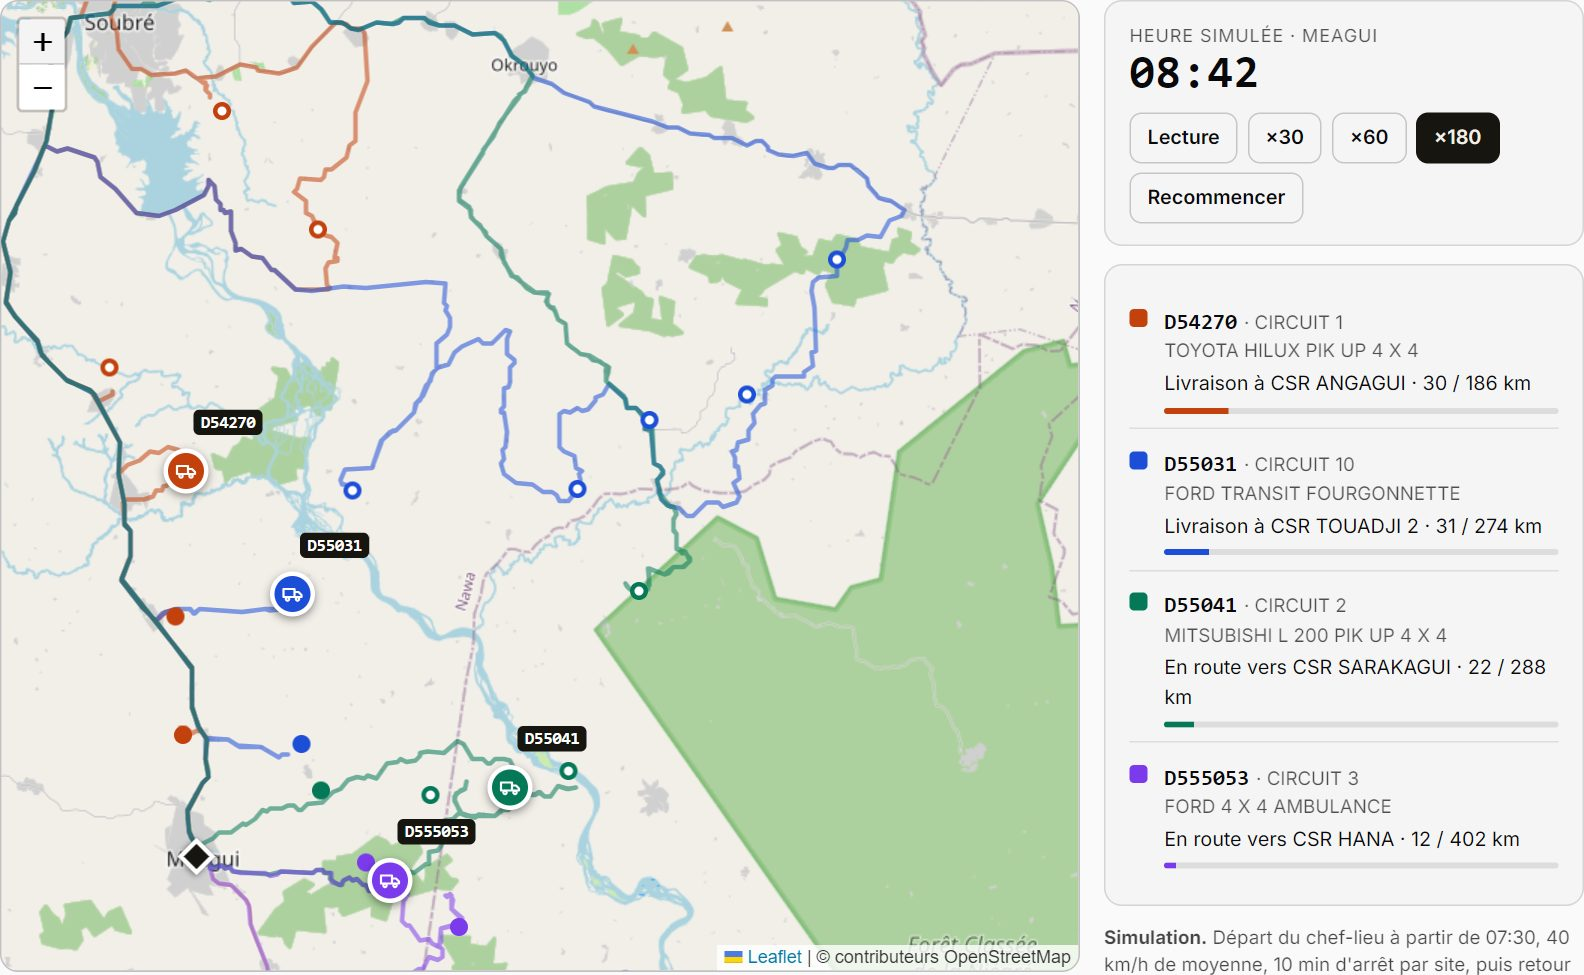
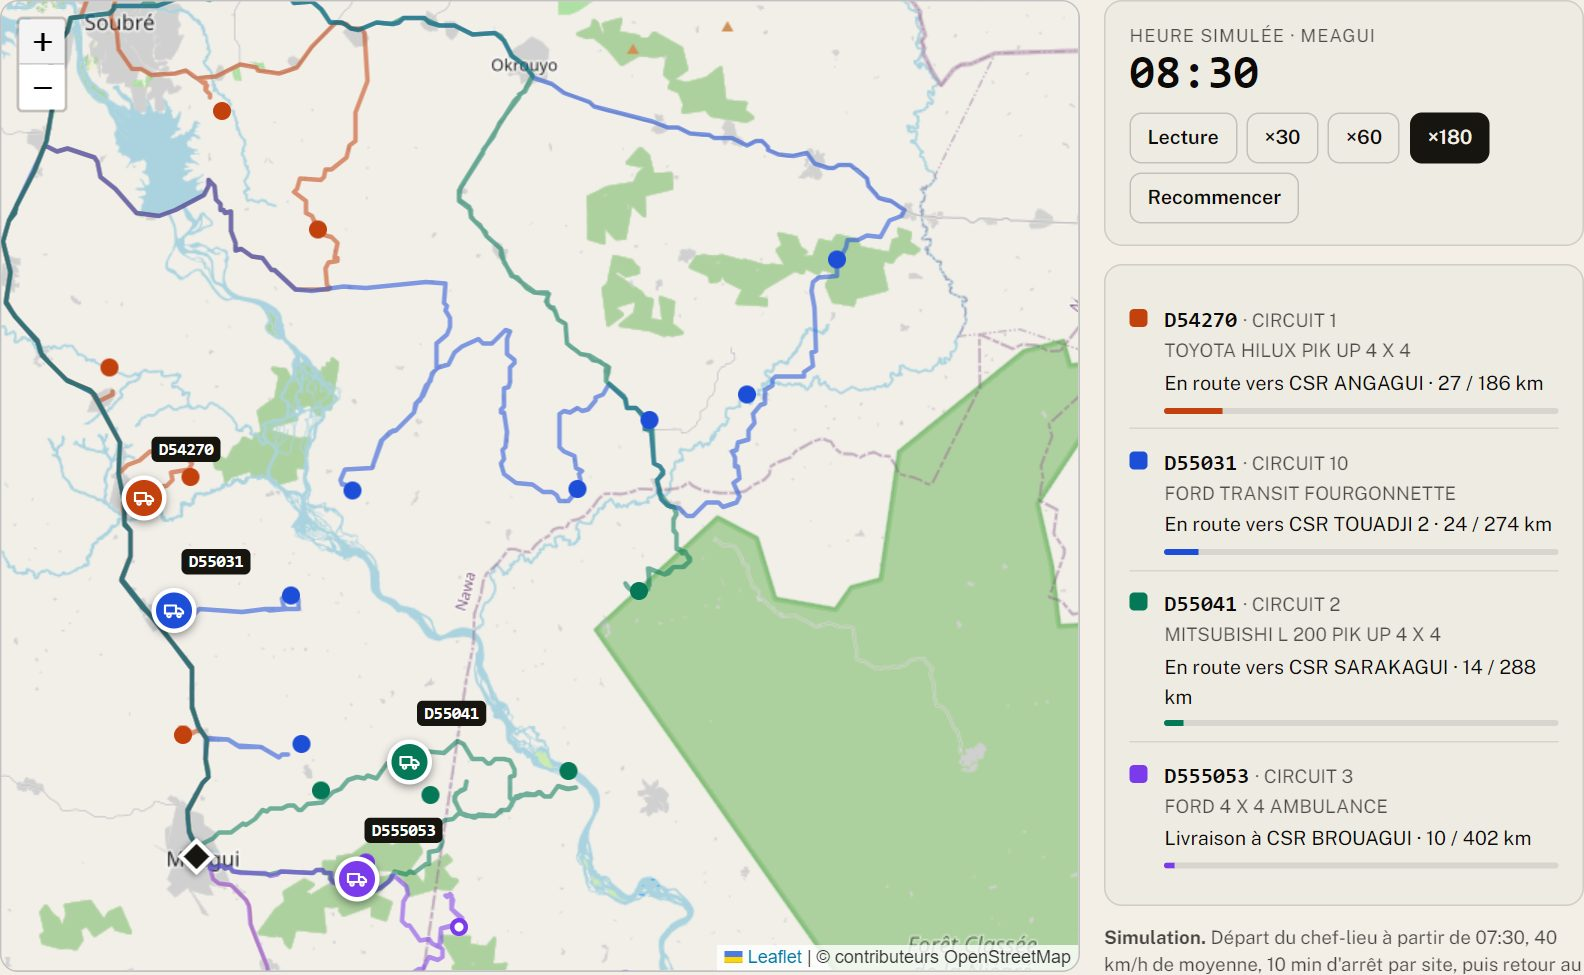
Menus : « Suivi de la saisie » devient « Cartographie » (sous le chronogramme), l'ancienne « Cartographie » devient « Suivi en temps réel » ; nom du produit « Logimaster » ; captures de la landing refaites

diff --git a/public/presentation/index.html b/public/presentation/index.html
@@ -3,7 +3,7 @@
 <head>
 <meta charset="utf-8">
 <meta name="viewport" content="width=device-width, initial-scale=1">
-<title>LogiMaster — Présentation animée</title>
+<title>Logimaster — Présentation animée</title>
 <link rel="icon" href="/logo.svg?v=2">
 <style>
 :root{--navy:#0a1226;--navy2:#101a33;--blue:#2563eb;--blue2:#60a5fa;--cyan:#22d3ee;--green:#22c55e;--amber:#f59e0b;--red:#ef4444;--ink:#0f172a;--muted:#5b6b82;--line:#e2e8f2}
@@ -146,12 +146,12 @@ html,body{height:100%;background:#050913;overflow:hidden;font-family:"Inter",sys
 <body>
 <div id="stage">
   <div class="bgfx"></div><div class="blob b1"></div><div class="blob b2"></div>
-  <div id="brand"><img src="/logo.svg?v=2" alt="">LogiMaster</div>
+  <div id="brand"><img src="/logo.svg?v=2" alt="">Logimaster</div>
   <div id="hint">Espace : pause · ← → : scènes · F : plein écran</div>
 
   <section class="scene s1">
     <img class="logo" src="/logo.svg?v=2" alt="">
-    <h1 aria-label="LogiMaster"><span style="animation-delay:.5s">Logi</span><span style="animation-delay:.65s">Master</span> <span style="animation-delay:.8s;color:var(--blue2)">Pro</span></h1>
+    <h1 aria-label="Logimaster"><span style="animation-delay:.5s">Logi</span><span style="animation-delay:.65s">Master</span> <span style="animation-delay:.8s;color:var(--blue2)">Pro</span></h1>
     <p>La logistique des districts sanitaires, en temps réel.</p>
     <div class="tag">Gestion de flotte · Livraisons · Indicateurs DDKM</div>
   </section>

diff --git a/public/js/lm-cartographie.js b/public/js/lm-cartographie.js
@@ -1,4 +1,4 @@
-/* Cartographie (LogiMaster) : simulation du déplacement des véhicules du district sur leurs circuits, fond OpenStreetMap (Leaflet). */
+/* Cartographie (Logimaster) : simulation du déplacement des véhicules du district sur leurs circuits, fond OpenStreetMap (Leaflet). */
 window.lmCartographie = window.lmCartographie || function (el, data) {
     if (el._lm) return; el._lm = true;
     const KMH = 40, STOP_MIN = 10, START = 7.5 * 60, GAP = 15;   // minutes simulées

diff --git a/resources/views/landing.blade.php b/resources/views/landing.blade.php
@@ -4,8 +4,8 @@
     <meta charset="utf-8">
     <meta name="viewport" content="width=device-width, initial-scale=1">
     <meta name="theme-color" content="#f3efe6">
-    <meta name="description" content="LogiMaster : planification des sorties, suivi des livraisons aux centres de santé et indicateurs DDKM pour les districts sanitaires. Application convoyeur utilisable sans réseau.">
-    <title>LogiMaster — Flotte et livraisons des districts sanitaires</title>
+    <meta name="description" content="Logimaster : planification des sorties, suivi des livraisons aux centres de santé et indicateurs DDKM pour les districts sanitaires. Application convoyeur utilisable sans réseau.">
+    <title>Logimaster — Flotte et livraisons des districts sanitaires</title>
     <link rel="icon" href="{{ \App\Support\Brand::favicon() }}">
     <link rel="icon" type="image/svg+xml" href="{{ \App\Support\Brand::logo() }}">
     <link rel="apple-touch-icon" href="{{ \App\Support\Brand::url('pwa/apple-touch-icon.png') }}">
@@ -165,10 +165,10 @@
 
 <header class="top">
     <div class="wrap">
-        <a class="brand" href="/"><img src="{{ \App\Support\Brand::logo() }}" alt=""><b>LogiMaster</b></a>
+        <a class="brand" href="/"><img src="{{ \App\Support\Brand::logo() }}" alt=""><b>Logimaster</b></a>
         <nav class="links">
             <a class="l" href="#fonctionnement">Fonctionnement</a>
-            <a class="l" href="#saisie">Suivi de la saisie</a>
+            <a class="l" href="#saisie">Cartographie</a>
             <a class="l" href="#indicateurs">Indicateurs</a>
             <a class="l" href="#terrain">Application terrain</a>
             @if ($adminOpen)<a class="btn line sm" href="/admin">Se connecter</a>@endif
@@ -201,7 +201,7 @@
         <figure class="up" style="animation-delay:.35s">
             <div class="shot">
                 <div class="cap"><span>Tableau de bord · district de Méagui</span><span>Octobre 2025</span></div>
-                <img src="/landing/tableau-de-bord.jpg" width="2160" height="1350" alt="Tableau de bord de LogiMaster : filtres par PRES, région, district et période, puis les huit indicateurs DDKM du mois d'octobre 2025 pour le district de Méagui.">
+                <img src="/landing/tableau-de-bord.jpg" width="2160" height="1350" alt="Tableau de bord de Logimaster : filtres par PRES, région, district et période, puis les huit indicateurs DDKM du mois d'octobre 2025 pour le district de Méagui.">
             </div>
             <figcaption><b>Capture de l'application.</b> Les huit indicateurs du mois, comparés au mois précédent, pour le district choisi. Un clic sur un indicateur ouvre son détail et son évolution.</figcaption>
         </figure>
@@ -222,7 +222,7 @@
 
 <section id="saisie">
     <div class="wrap">
-        <div class="sh"><span class="mono">02 — Suivi de la saisie</span><div><h2>Qui a renseigné ses véhicules, et qui ne l'a pas fait</h2><p>Un tableau des districts sur les douze mois de l'année. Le niveau régional et national voit d'un coup d'œil où relancer.</p></div></div>
+        <div class="sh"><span class="mono">02 — Cartographie</span><div><h2>Qui a renseigné ses véhicules, et qui ne l'a pas fait</h2><p>Une carte de la Côte d'Ivoire et un tableau des districts sur les douze mois de l'année. Le niveau régional et national voit d'un coup d'œil où relancer.</p></div></div>
         <div class="split">
             <ul>
                 <li><b>Un district par ligne, un mois par colonne</b>Le chiffre de chaque case est le nombre de sorties saisies dans le mois.</li>
@@ -231,8 +231,8 @@
             </ul>
             <figure>
                 <div class="shot">
-                    <div class="cap"><span>Suivi de la saisie · région NAWA</span><span>2025</span></div>
-                    <img src="/landing/suivi-saisie.jpg" width="1665" height="690" alt="Tableau du suivi de la saisie pour la région NAWA en 2025 : quatre districts, douze mois, cases vertes pour les mois renseignés et rouges pour les mois sans saisie.">
+                    <div class="cap"><span>Cartographie · 113 districts sanitaires</span><span>2025</span></div>
+                    <img src="/landing/cartographie-saisie.jpg" width="1584" height="899" alt="Carte de la Côte d'Ivoire avec les 113 districts sanitaires : en vert ceux qui ont saisi leurs sorties de véhicules, en rouge ceux qui n'ont rien saisi.">
                 </div>
                 <div class="key"><span><i style="background:#16a34a"></i>Renseigné</span><span><i style="background:#dc2626"></i>Non renseigné</span><span><i style="background:#d6d3cc"></i>Mois à venir</span></div>
             </figure>
@@ -287,11 +287,11 @@
 
 <section id="cartographie">
     <div class="wrap">
-        <div class="sh"><span class="mono">05 — Cartographie</span><div><h2>Les véhicules du district sur la carte</h2><p>Une carte OpenStreetMap du district : chaque véhicule suit son circuit sur le réseau routier, site par site, avec son avancement et sa prochaine étape.</p></div></div>
+        <div class="sh"><span class="mono">05 — Suivi en temps réel</span><div><h2>Les véhicules du district sur la carte</h2><p>Une carte OpenStreetMap du district : chaque véhicule suit son circuit sur le réseau routier, site par site, avec son avancement et sa prochaine étape.</p></div></div>
         <figure>
             <div class="shot">
-                <div class="cap"><span>Cartographie · district de Méagui</span><span>Simulation de la journée</span></div>
-                <img src="/landing/cartographie-zoom.jpg" width="1584" height="975" loading="lazy" alt="Cartographie du district de Méagui : tracés routiers des circuits, position de chaque véhicule et liste des véhicules avec leur avancement.">
+                <div class="cap"><span>Suivi en temps réel · district de Méagui</span><span>Simulation de la journée</span></div>
+                <img src="/landing/cartographie-zoom.jpg" width="1584" height="975" loading="lazy" alt="Suivi en temps réel du district de Méagui : tracés routiers des circuits, position de chaque véhicule et liste des véhicules avec leur avancement.">
             </div>
         </figure>
         <div class="map-legend">
@@ -327,7 +327,7 @@
 
 <footer>
     <div class="wrap">
-        <span>LogiMaster · gestion de flotte et livraisons des districts sanitaires</span>
+        <span>Logimaster · gestion de flotte et livraisons des districts sanitaires</span>
         <span><a href="#fonctionnement">Fonctionnement</a><a href="/m">Application convoyeur</a><a href="/m/installer">Affiche d'installation</a>@if ($adminOpen)<a href="/admin">Administration</a>@endif</span>
     </div>
 </footer>

diff --git a/resources/views/mobile/app.blade.php b/resources/views/mobile/app.blade.php
@@ -7,12 +7,12 @@
     <meta name="theme-color" content="#14130f" media="(prefers-color-scheme: dark)">
     <meta name="mobile-web-app-capable" content="yes">
     <meta name="apple-mobile-web-app-capable" content="yes">
-    <meta name="apple-mobile-web-app-title" content="LogiMaster">
+    <meta name="apple-mobile-web-app-title" content="Logimaster">
     <meta name="apple-mobile-web-app-status-bar-style" content="default">
     <link rel="manifest" href="/m/manifest.webmanifest">
     <link rel="apple-touch-icon" href="{{ \App\Support\Brand::url('pwa/apple-touch-icon.png') }}">
     <link rel="icon" href="{{ \App\Support\Brand::favicon() }}">
-    <title>LogiMaster Convoyeur</title>
+    <title>Logimaster Convoyeur</title>
     <link rel="preconnect" href="https://fonts.googleapis.com">
     <link rel="preconnect" href="https://fonts.gstatic.com" crossorigin>
     <link href="https://fonts.googleapis.com/css2?family=Newsreader:opsz,wght@6..72,500&family=Public+Sans:wght@400;500;600;700&family=IBM+Plex+Mono:wght@500&display=swap" rel="stylesheet">
@@ -309,7 +309,7 @@ function render() {
 
 // ---- connexion
 function loginView() {
-    return '<div class="center"><img class="logo" src="' + esc(CFG.logo || '/logo.svg') + '" alt=""><div class="brandline"><span>LogiMaster · convoyeur</span><span>District sanitaire</span></div><h1 style="margin:0 0 8px">Vos circuits, site par site.</h1><p class="muted" style="margin:0 0 10px;font-size:15px">Connectez-vous pour voir vos sorties validées.</p>' +
+    return '<div class="center"><img class="logo" src="' + esc(CFG.logo || '/logo.svg') + '" alt=""><div class="brandline"><span>Logimaster · convoyeur</span><span>District sanitaire</span></div><h1 style="margin:0 0 8px">Vos circuits, site par site.</h1><p class="muted" style="margin:0 0 10px;font-size:15px">Connectez-vous pour voir vos sorties validées.</p>' +
         '<form id="login"><label for="em">Identifiant</label><input id="em" type="text" autocomplete="username" autocapitalize="none" autocorrect="off" spellcheck="false" placeholder="ex. kone.ibrahim" required>' +
         '<label for="pw">Code d\'accès ou mot de passe</label><input id="pw" type="password" autocomplete="current-password" required>' +
         '<p class="muted" style="margin:8px 2px 0">Identifiant et code provisoire remis par votre district.</p>' +
@@ -721,7 +721,7 @@ function profileView() {
         (!standalone && ios ? '<div class="card muted">iPhone : touchez <b>Partager</b> puis <b>Sur l\'écran d\'accueil</b> pour installer l\'application et recevoir les notifications.</div>' : '') +
         '<button class="btn sec" id="pushtest" style="margin-bottom:12px">Recevoir une notification de test</button>' +
         '<a class="btn sec" href="#/password" style="margin-bottom:10px">Changer le mot de passe</a><button class="btn sec" id="sync" style="margin-bottom:10px">Synchroniser maintenant</button><button class="btn bad" id="out">Se déconnecter</button>' +
-        '<p class="muted" style="text-align:center;margin-top:16px">LogiMaster Convoyeur</p>');
+        '<p class="muted" style="text-align:center;margin-top:16px">Logimaster Convoyeur</p>');
 }
 function bindProfile() {
     var e;

diff --git a/tests/Feature/DistrictWorkbooksTest.php b/tests/Feature/DistrictWorkbooksTest.php
@@ -102,11 +102,11 @@ class DistrictWorkbooksTest extends TestCase
 
     public function test_command_matches_files_to_districts_and_keeps_the_latest_month(): void
     {
-        $this->workbook($this->dir.'/MAI/LogiMaster Version 30092025 DS KOUASSI_KOUASSIKRO.xlsx', 'Liste des Sites', 'Nom des ESPC et autres sites de destination',
+        $this->workbook($this->dir.'/MAI/Logimaster Version 30092025 DS KOUASSI_KOUASSIKRO.xlsx', 'Liste des Sites', 'Nom des ESPC et autres sites de destination',
             [['1111 AA 01', 'X', '2021-12-01', 'PNLP', 'TOYOTA', 'HIACE', 2021, '2027-01-01', 1500, 'Gasoil']]);
-        $this->workbook($this->dir.'/OCTOBRE/LogiMaster Version 30092025 DS KOUASSI_KOUASSIKRO.xlsx', 'Liste des ESPC', 'Nom des ESPC et autres sites de destination',
+        $this->workbook($this->dir.'/OCTOBRE/Logimaster Version 30092025 DS KOUASSI_KOUASSIKRO.xlsx', 'Liste des ESPC', 'Nom des ESPC et autres sites de destination',
             [['2222 BB 01', 'X', '2021-12-01', 'PNLP', 'NISSAN', 'NAVARA', 2021, '2027-01-01', 1500, 'Gasoil']]);
-        $this->workbook($this->dir.'/OCTOBRE/LogiMaster Version 30092025 DS YOP EST  .xlsx', 'Liste des ESPC', 'Nom des ESPC et autres sites de destination', []);
+        $this->workbook($this->dir.'/OCTOBRE/Logimaster Version 30092025 DS YOP EST  .xlsx', 'Liste des ESPC', 'Nom des ESPC et autres sites de destination', []);
 
         $this->artisan('import:districts', ['folder' => $this->dir])->assertSuccessful();
 
@@ -123,7 +123,7 @@ class DistrictWorkbooksTest extends TestCase
 
     public function test_dry_run_changes_nothing(): void
     {
-        $this->workbook($this->dir.'/OCTOBRE/LogiMaster Version 30092025 DS KOUASSI_KOUASSIKRO.xlsx', 'Liste des Sites', 'Nom des ESPC et autres sites de destination', []);
+        $this->workbook($this->dir.'/OCTOBRE/Logimaster Version 30092025 DS KOUASSI_KOUASSIKRO.xlsx', 'Liste des Sites', 'Nom des ESPC et autres sites de destination', []);
         $this->artisan('import:districts', ['folder' => $this->dir, '--dry-run' => true])->assertSuccessful();
         $this->assertSame(0, Espc::count());
     }

diff --git a/app/Filament/Pages/SuiviSaisie.php b/app/Filament/Pages/SuiviSaisie.php
@@ -11,7 +11,7 @@ use Filament\Support\Icons\Heroicon;
 use Illuminate\Support\Facades\DB;
 
 /**
- * Suivi de la saisie : un tableau districts × 12 mois de l'année.
+ * Cartographie (ex « Suivi de la saisie ») : carte des districts sanitaires et tableau districts × 12 mois de l'année.
  * Vert = au moins une sortie de véhicule saisie dans le mois ; rouge = rien de saisi ; gris = mois à venir.
  * On repère ainsi les districts qui ne font pas le suivi de leurs véhicules.
  */
@@ -19,17 +19,15 @@ class SuiviSaisie extends Page
 {
     protected string $view = 'filament.pages.suivi-saisie';
 
-    protected static string|BackedEnum|null $navigationIcon = Heroicon::OutlinedTableCells;
+    protected static string|BackedEnum|null $navigationIcon = Heroicon::OutlinedGlobeAlt;
 
-    protected static ?string $navigationLabel = 'Suivi de la saisie';
+    protected static ?string $navigationLabel = 'Cartographie';
 
-    protected static string|\UnitEnum|null $navigationGroup = 'Données';
+    protected static ?int $navigationSort = 6;   // juste après le chronogramme
 
-    protected static ?int $navigationSort = 0;
+    protected static ?string $title = 'Cartographie';
 
-    protected static ?string $title = 'Suivi de la saisie par district';
-
-    protected static ?string $slug = 'suivi-saisie';
+    protected static ?string $slug = 'cartographie';
 
     public int $annee = 0;
 

diff --git a/app/Filament/Pages/Cartographie.php b/app/Filament/Pages/Cartographie.php
@@ -8,20 +8,20 @@ use Filament\Facades\Filament;
 use Filament\Pages\Page;
 use Filament\Support\Icons\Heroicon;
 
-/** Cartographie du district (OpenStreetMap) : les véhicules parcourent leur circuit en simulation, site par site. */
+/** Suivi en temps réel (ex « Cartographie ») du district (OpenStreetMap) : les véhicules parcourent leur circuit en simulation, site par site. */
 class Cartographie extends Page
 {
     protected string $view = 'filament.pages.cartographie';
 
-    protected static string|BackedEnum|null $navigationIcon = Heroicon::OutlinedGlobeAlt;
+    protected static string|BackedEnum|null $navigationIcon = Heroicon::OutlinedSignal;
 
-    protected static ?string $navigationLabel = 'Cartographie';
+    protected static ?string $navigationLabel = 'Suivi en temps réel';
 
-    protected static ?int $navigationSort = 6;
+    protected static ?int $navigationSort = 7;
 
-    protected static ?string $title = 'Cartographie';
+    protected static ?string $title = 'Suivi en temps réel';
 
-    protected static ?string $slug = 'cartographie';
+    protected static ?string $slug = 'suivi-temps-reel';
 
     public static function canAccess(): bool
     {

diff --git a/resources/views/mobile/sw.blade.php b/resources/views/mobile/sw.blade.php
@@ -1,4 +1,4 @@
-// Service worker LogiMaster Convoyeur : coque de l'application hors réseau + notifications push.
+// Service worker Logimaster Convoyeur : coque de l'application hors réseau + notifications push.
 // La version du cache change à chaque déploiement de l'application : les téléphones reprennent la nouvelle coque.
 const CACHE = 'lm-shell-{{ $version }}';
 @verbatim
@@ -50,8 +50,8 @@ self.addEventListener('fetch', (event) => {
 
 self.addEventListener('push', (event) => {
     let data = {};
-    try { data = event.data ? event.data.json() : {}; } catch (e) { data = { title: 'LogiMaster', body: event.data ? event.data.text() : '' }; }
-    event.waitUntil(self.registration.showNotification(data.title || 'LogiMaster', {
+    try { data = event.data ? event.data.json() : {}; } catch (e) { data = { title: 'Logimaster', body: event.data ? event.data.text() : '' }; }
+    event.waitUntil(self.registration.showNotification(data.title || 'Logimaster', {
         body: data.body || '',
         icon: '/pwa/icon-192.png',
         badge: '/pwa/icon-192.png',

diff --git a/resources/views/mobile/install.blade.php b/resources/views/mobile/install.blade.php
@@ -3,7 +3,7 @@
 <head>
     <meta charset="utf-8">
     <meta name="viewport" content="width=device-width, initial-scale=1">
-    <title>Installer LogiMaster Convoyeur</title>
+    <title>Installer Logimaster Convoyeur</title>
     <link rel="icon" href="{{ \App\Support\Brand::favicon() }}">
     <style>
         :root { --bg:#f5f7fb; --card:#fff; --text:#111827; --muted:#6b7280; --border:#e5e7eb; --accent:#2563eb; }
@@ -34,13 +34,13 @@
     <div class="head">
         <img src="{{ \App\Support\Brand::logo() }}" alt="">
         <div>
-            <h1>LogiMaster Convoyeur</h1>
+            <h1>Logimaster Convoyeur</h1>
             <p class="sub">L'application pour exécuter vos circuits : livraisons, carburant, notifications.</p>
         </div>
     </div>
 
     <div class="grid">
-        <div class="qr"><img src="/m/qr.svg" alt="QR code d'installation de LogiMaster Convoyeur"></div>
+        <div class="qr"><img src="/m/qr.svg" alt="QR code d'installation de Logimaster Convoyeur"></div>
         <div>
             <h2>Android (Chrome)</h2>
             <ol>

diff --git a/app/Domain/Backup/BackupManager.php b/app/Domain/Backup/BackupManager.php
@@ -13,7 +13,7 @@ use RuntimeException;
 use ZipArchive;
 
 /**
- * Sauvegardes de LogiMaster : une archive zip contenant
+ * Sauvegardes de Logimaster : une archive zip contenant
  *   - database.sqlite : copie cohérente de la base, prise pendant que l'application tourne (VACUUM INTO) ;
  *   - photos/… : factures, photos de compteur, bons de livraison ;
  *   - manifest.json : date, nombre de lignes par table, empreinte de la base.
@@ -69,7 +69,7 @@ class BackupManager
                 }
             }
             $zip->addFromString('manifest.json', json_encode([
-                'application' => 'LogiMaster', 'created_at' => $now->toIso8601String(), 'database_sha256' => hash_file('sha256', $copy),
+                'application' => 'Logimaster', 'created_at' => $now->toIso8601String(), 'database_sha256' => hash_file('sha256', $copy),
                 'counts' => $counts, 'photos' => $photos, 'app_env' => config('app.env'),
             ], JSON_PRETTY_PRINT | JSON_UNESCAPED_UNICODE));
             $zip->close();

diff --git a/resources/views/filament/preloader.blade.php b/resources/views/filament/preloader.blade.php
@@ -1,4 +1,4 @@
-{{-- Préchargeur de l'administration : le logo LogiMaster se dessine (départ, itinéraire, arrivée) pendant le chargement de la page --}}
+{{-- Préchargeur de l'administration : le logo Logimaster se dessine (départ, itinéraire, arrivée) pendant le chargement de la page --}}
 <div id="lm-preloader" role="status" aria-live="polite" aria-label="Chargement">
     <div class="lm-pl-box">
         <svg class="lm-pl-logo" viewBox="0 0 512 512" aria-hidden="true">
@@ -7,7 +7,7 @@
             <circle class="lm-pl-start" cx="150" cy="132" r="43" fill="#16150f" stroke="#f3efe6" stroke-width="38"/>
             <circle class="lm-pl-end" cx="368" cy="362" r="49" fill="#16150f" stroke="#e25c1e" stroke-width="46"/>
         </svg>
-        <div class="lm-pl-name">LogiMaster</div>
+        <div class="lm-pl-name">Logimaster</div>
         <div class="lm-pl-text">Chargement…</div>
     </div>
 </div>

diff --git a/app/Providers/Filament/AdminPanelProvider.php b/app/Providers/Filament/AdminPanelProvider.php
@@ -36,8 +36,8 @@ class AdminPanelProvider extends PanelProvider
             ])
             ->font('Public Sans')
             ->renderHook(\Filament\View\PanelsRenderHook::HEAD_END, fn () => view('filament.theme'))   // fond papier, titres à empattement
-            ->brandName('LogiMaster')
-            ->brandLogo(fn () => view('filament.brand'))   // icône LogiMaster + nom
+            ->brandName('Logimaster')
+            ->brandLogo(fn () => view('filament.brand'))   // icône Logimaster + nom
             ->brandLogoHeight('2rem')
             ->favicon(fn () => \App\Support\Brand::favicon())
             ->renderHook(\Filament\View\PanelsRenderHook::BODY_START, fn () => view('filament.preloader'))   // préchargeur au chargement des pages
